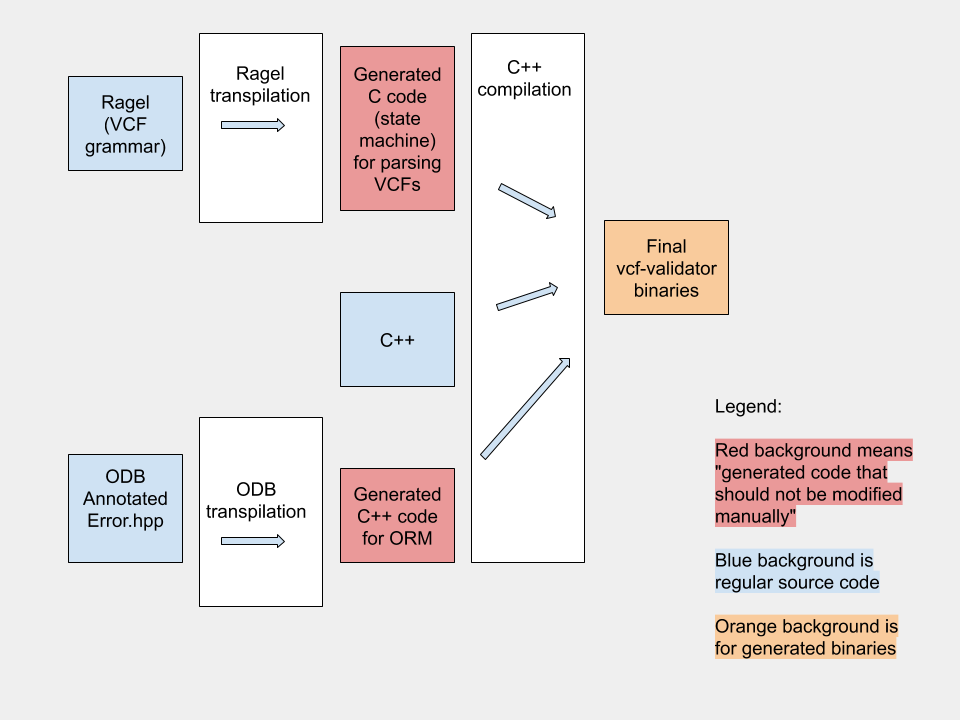
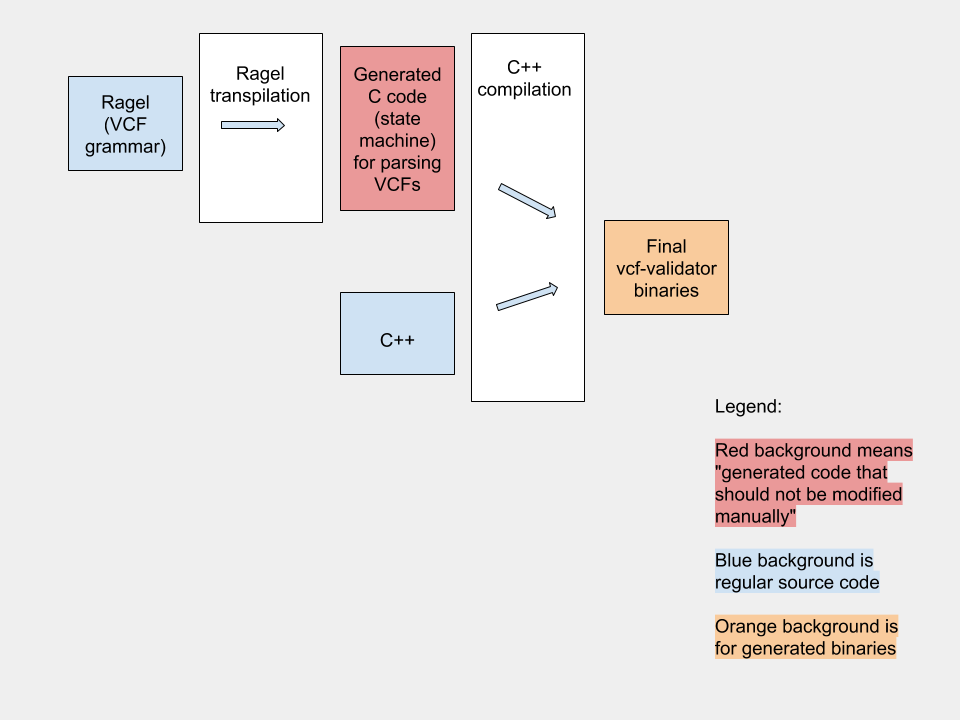
cleanup (#267)

diff --git a/docs/developer-guide.md b/docs/developer-guide.md
@@ -11,11 +11,11 @@ into the programming technical details.
 
 ## Build process overview
 
-This is a C++ project that produces 3 binaries: vcf-validator,
-vcf-assembly-checker and vcf-debugulator. The build is done with CMake (file
+This is a C++ project that produces 2 binaries: vcf-validator and
+vcf-assembly-checker. The build is done with CMake (file
 [CMakeLists.txt](../CMakeLists.txt)) for Linux, Windows and macOS. There are
 scripts to help installing the dependencies
-([install_dependencies.sh](../install_dependencies.sh)) for Linux and macOS, and
+([install_dependencies.sh](../install_dependencies.sh)) for Linux and
 [install_dependencies.bat](../install_dependencies.bat) for Windows).
 
 We also use TravisCI ([.travis.yml](../.travis.yml)) and AppVeyor
@@ -79,11 +79,7 @@ VCF (including the metadata section), and `Error` classes (related among
 themselves by hierarchical inheritance) are used to represent different types of
 possible errors.
 
-Based on those `Error`s, the program can produce human-readable reports and a
-machine-readable report that the VCF Debugulator can read to fix some basic
-errors. Later, this machine-readable report and Debugulator support were removed
-to make build, packaging and installation simpler.
-
+Based on those `Error`s, the program can produce human-readable reports.
 The level of checks can be configured, from doing just a quick syntax check, to
 raise warnings of suspicious details.
 
@@ -179,25 +175,9 @@ of polymorphism when we catch those exceptions in vcf.ragel (again, search for
 
 If the policy to report the errors is in use, the parser has the list of
 report writers the user requested. These can be any combination of
-[simple report](../inc/vcf/record.hpp), [summary
-report](../inc/vcf/summary_report_writer.hpp), and [ODB
-report](../inc/vcf/odb_report.hpp).
+[simple report](../inc/vcf/record.hpp) and
+[summaryreport](../inc/vcf/summary_report_writer.hpp).
 
-ODB is a library for Object Relational Mapping. In other words, we use it to
-serialize the class data of errors, so that the debugulator can deserialize
-the error details directly into variables and classes without parsing.
-
-We use ODB mostly in [inc/vcf/Error.hpp](../inc/vcf/error.hpp), through some
-pragmas. The way ODB works is parsing the C++ classes that have ODB pragmas and
-outputs C++ code that serializes the class instance information into a SQL
-database. We chose Sqlite as database backend, which means that the DB reports
-can actually be opened with a Sqlite client.
-
-The debugulator had very minimal functionality and limited usage. To reduce the
-build, packaging and installation complexities, a few of the dependencies were
-removed and ODB is one among them. Along with ODB, debugulator was also removed
-from build as it is fully dependent on ODB. The sources and part of
-documentation retained for future reference.
 
 ### VCF assembly checker
 
@@ -222,31 +202,9 @@ There's also limited support to use assembly reports
 and translate between synonym contig names/accessions in case the nomenclature
 in the VCF and in the FASTA don't match.
 
-### VCF Debugulator
-
-At the beginning of the project we expected there would be interesting
-situations were we could use the ODB report to fix automatically wrong VCFs.
-Sadly, it turned out that there's not much an automated program can do, really.
-
-The fixes are implemented in [inc/vcf/fixer.hpp](../inc/vcf/fixer.hpp) and 
-[src/vcf/fixer.cpp](../src/vcf/fixer.cpp), and basically consist on removing
-duplicate variants and dropping entire fields that are non-conforming with the
-spec.
-
-The debugulator had very minimal functionality and limited usage. To reduce the
-build, packaging and installation complexities, a few of the dependencies were
-removed and ODB is one among them. Along with ODB, debugulator was also removed
-from build as it is fully dependent on ODB. The sources and part of
-documentation retained for future reference.
-
 ## Testing
 
 Testing is performed with [Catch](https://github.com/catchorg/Catch2) in the
 [`test/`](../test/) folder. The folders test/vcf/, test/fasta/ and
 test/assembly_report/ contain test source code, and test/input_files contain a
 medium-sized set of correct and wrong VCFs that are used in the tests.
-
-## ODB dependency
-
-ODB was in use earlier and it has now been removed. Debugulator was also removed
-along with it as it depends on ODB.

diff --git a/README.md b/README.md
@@ -134,7 +134,7 @@ Boost* | \>=1.65 | manual or automatic
 If you are using Ubuntu 16, you can prepare all dependencies and compile the Validation Suite with these commands:
 ```
 sudo apt-get install cmake wget build-essential
-./install_dependencies.sh linux
+./install_dependencies.sh
 mkdir build && cd build && cmake -G "Unix Makefiles" -DSTATIC_BUILD=1 ..
 make
 ```
@@ -142,7 +142,7 @@ make
 The VCF Validation Suite binaries will be created in the `build/bin` subfolder. Optionally, read below for the explanation of the previous commands.
 
 ##### CMake and automatic installation
-The automatic install **requires** CMake and wget to be installed before running the script (as zlib require them to be installed). Also, the script will compile some dependencies so a compilation environment is needed. If you are using Ubuntu, you can install all that with the command `sudo apt-get install cmake wget build-essential`. After installing that, use the command `./install_dependencies.sh linux`.
+The automatic install **requires** CMake and wget to be installed before running the script (as zlib require them to be installed). Also, the script will compile some dependencies so a compilation environment is needed. If you are using Ubuntu, you can install all that with the command `sudo apt-get install cmake wget build-essential`. After installing that, use the command `./install_dependencies.sh`.
 
 A subfolder named `dependencies` will be created, with all the required libraries copied into it. 
 
@@ -177,7 +177,7 @@ Boost | \>=1.65 | manual
 
 You can prepare all dependencies and compile the Validation Suite with these commands:
 ```
-brew install cmake boost sqlite3
+brew install cmake boost
 mkdir build && cd build && cmake -G "Unix Makefiles" ..
 make
 ```
@@ -187,8 +187,6 @@ The VCF Validation Suite binaries will be created in the `build/bin` subfolder. 
 ##### CMake and automatic installation
 
 The automatic install requires CMake and wget to be installed before running the script (as zlib require them to be installed). In order to set up the environment to compile the dependencies, first you need to run `brew install cmake boost`.
-
-A subfolder named `osx_dependencies` will be created, with all the required libraries copied into it.
 
 #### Compile
 
@@ -222,14 +220,11 @@ bootstrap
 In order to create the build scripts and compile vcf-validator, please run the following commands from the project root folder:
 
 ```
-cmake -DCMAKE_BUILD_TYPE=Release -G "NMake Makefiles" /path/to/CMakeLists.txt
+cmake -DCMAKE_BUILD_TYPE=Release -DSTATIC_BUILD=1 -G "NMake Makefiles" /path/to/CMakeLists.txt
 nmake
 ```
 
 Binaries will be created in the `bin` subfolder.
-
-In order to run those binaries, you will need to add the `lib/windows_specific` directory to the `PATH`. This will allow the dll files inside that directory to be found.
-
 
 ## Deliverables
 
